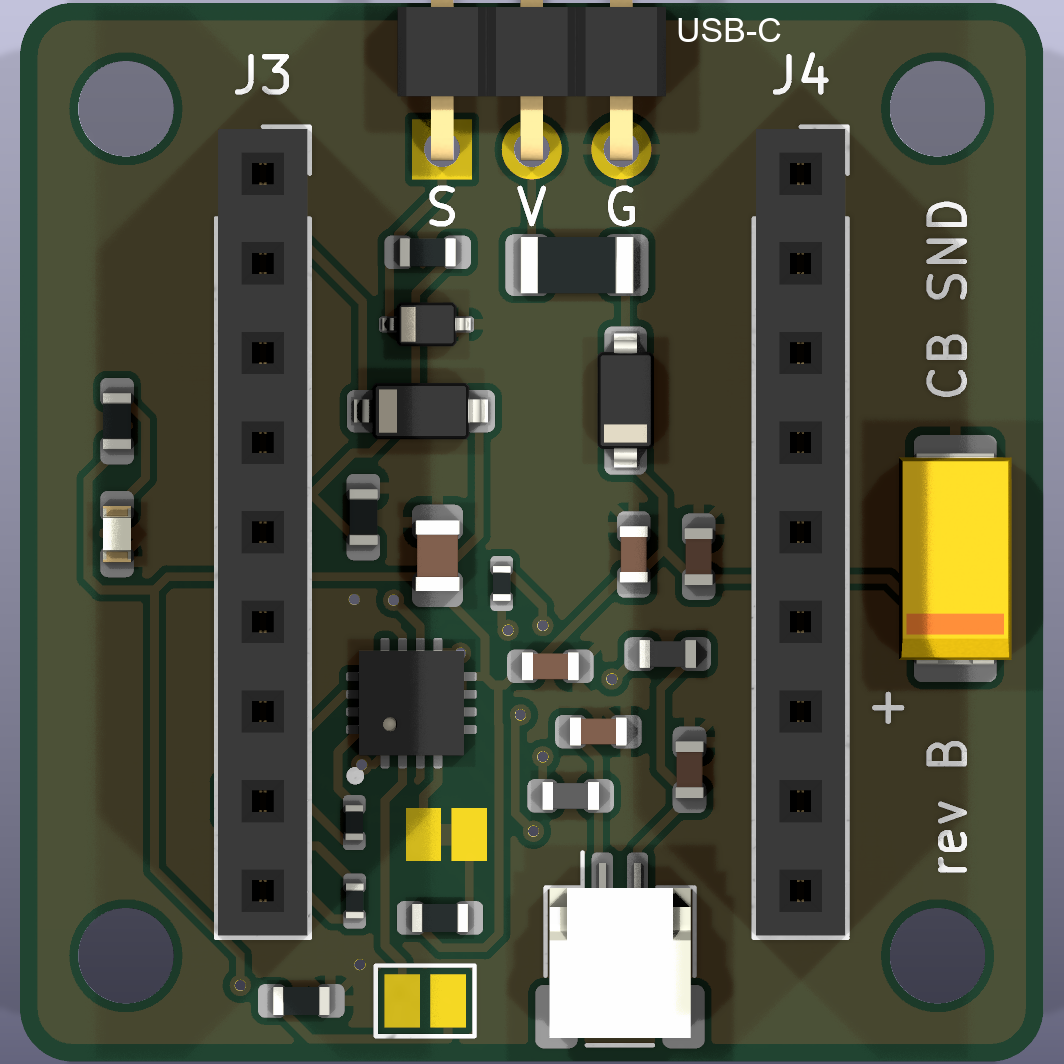
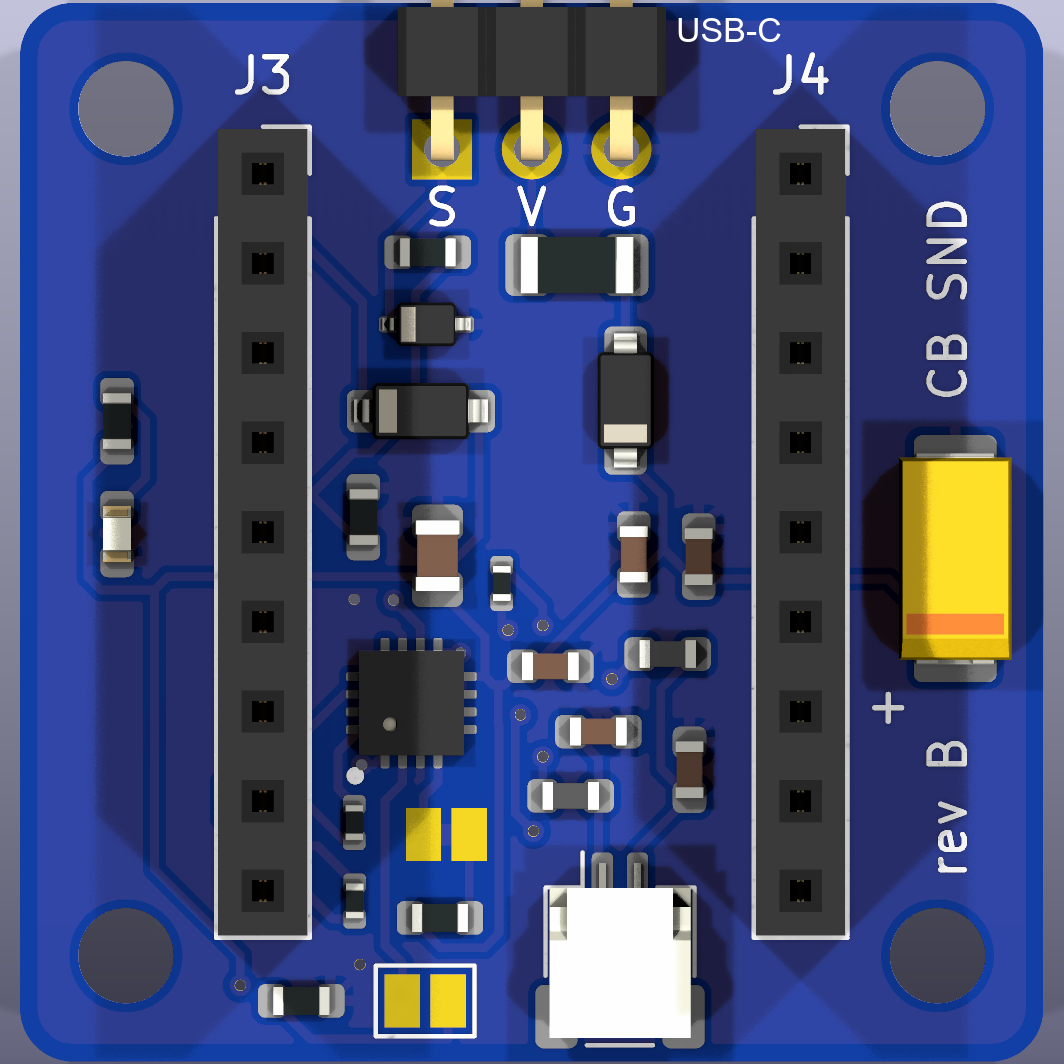
Shield rev B: blue solder mask in the board stackup, picture rendered in blue
The owner's decision of 2026-11-27: the same colour as the ESP32-S3-Zero on top of the board. The colour is set by
tools/shield_stackup.py (also run by make_shield_rev_b.py); tools/render_shield_rev_b.py makes the picture. Gerbers
and drill file come out as before, only the colour fields of the gerber job file differ; fab/ is not regenerated.

diff --git a/tools/shield_stackup.py b/tools/shield_stackup.py
@@ -1,0 +1,59 @@
+"""The colour of the shield board in its KiCad file: the physical stackup (Board Setup > Physical Stackup) with the
+solder mask colour of rev B, blue like the ESP32-S3-Zero on top of it (decided 2026-11-27; rev A is green).
+
+KiCad uses the colour in its 3D view (with the board stackup colours switched on) and writes it into the gerber job
+file; the gerbers and the drill file do not change. The colour of a real board is chosen in the order form.
+
+tools/make_shield_rev_b.py calls set_stackup() after it has written the board. On a rev B board it can also be run
+alone, with any Python (running it again only sets the colour):
+
+    python tools/shield_stackup.py
+"""
+import re
+from pathlib import Path
+
+PCB = Path(__file__).resolve().parent.parent / "hardware" / "shield" / "shield.kicad_pcb"
+# A custom blue (RRGGBBAA): KiCad's own "Blue" looks violet in the 3D view; this one is close to the blue of the Zero and
+# lets the tracks show through.
+MASK = "#0A2F80F2"
+SILK = "White"
+
+# 2 layers, 1.6 mm in all: mask 0.01 + copper 0.035 + core 1.51 + copper 0.035 + mask 0.01
+STACKUP = f"""(stackup
+(layer "F.SilkS" (type "Top Silk Screen") (color "{SILK}"))
+(layer "F.Paste" (type "Top Solder Paste"))
+(layer "F.Mask" (type "Top Solder Mask") (color "{MASK}") (thickness 0.01))
+(layer "F.Cu" (type "copper") (thickness 0.035))
+(layer "dielectric 1" (type "core") (thickness 1.51) (material "FR4") (epsilon_r 4.5) (loss_tangent 0.02))
+(layer "B.Cu" (type "copper") (thickness 0.035))
+(layer "B.Mask" (type "Bottom Solder Mask") (color "{MASK}") (thickness 0.01))
+(layer "B.Paste" (type "Bottom Solder Paste"))
+(layer "B.SilkS" (type "Bottom Silk Screen") (color "{SILK}"))
+(copper_finish "None")
+(dielectric_constraints no)
+)"""
+
+
+def set_stackup(path=PCB):
+    text = Path(path).read_bytes().decode("utf-8")
+    nl = "\r\n" if "\r\n" in text else "\n"
+    if "(stackup" in text:
+        # KiCad's own layout: one item per line, the colour after the type of the layer
+        new, n = re.subn(r'(\(type "(?:Top|Bottom) Solder Mask"\)\s*\(color ")[^"]*(")', rf"\g<1>{MASK}\g<2>", text)
+        if n != 2:
+            raise SystemExit(f"{path}: the stackup has no two mask colours to set; use KiCad's Board Setup")
+    else:
+        lines = STACKUP.split("\n")
+        block = [lines[0]] + ["\t" + x for x in lines[1:-1]] + [lines[-1]]
+        new, n = re.subn(r"(\n\t\(setup)(\r?\n)", lambda m: m.group(1) + m.group(2) + "".join("\t\t" + x + nl for x in block),
+                         text, count=1)
+        if n != 1:
+            raise SystemExit(f"{path}: no (setup section found")
+    Path(path).write_bytes(new.encode("utf-8"))
+    print(f"solder mask {MASK} set in {path}")
+
+
+if __name__ == "__main__":
+    if '(rev "B")' not in PCB.read_text(encoding="utf-8"):
+        raise SystemExit(f"{PCB.name} is not rev B; rev A is green")
+    set_stackup()

diff --git a/tools/render_shield_rev_b.py b/tools/render_shield_rev_b.py
@@ -1,0 +1,39 @@
+"""Make docs/shield-pcb-rev-b-top.png: the 3D render of the rev B board (top side, the colours of the board stackup)
+with the intended "USB-C" label added to the picture only (it is not in the board files).
+
+Usage: python tools/render_shield_rev_b.py
+
+Needs KiCad's kicad-cli and ImageMagick (magick): both are looked for on the PATH, then in their usual Windows folders.
+"""
+import glob
+import shutil
+import subprocess
+import tempfile
+from pathlib import Path
+
+ROOT = Path(__file__).resolve().parent.parent
+PCB = ROOT / "hardware" / "shield" / "shield.kicad_pcb"
+OUT = ROOT / "docs" / "shield-pcb-rev-b-top.png"
+
+
+def program(name, *patterns):
+    found = shutil.which(name) or next((m for p in patterns for m in sorted(glob.glob(p), reverse=True)), None)
+    if not found:
+        raise SystemExit(f"{name} not found")
+    return found
+
+
+def main():
+    cli = program("kicad-cli", r"C:\Program Files\KiCad\bin\kicad-cli.exe", r"C:\Program Files\KiCad\*\bin\kicad-cli.exe")
+    magick = program("magick", r"C:\Program Files\ImageMagick*\magick.exe")
+    with tempfile.TemporaryDirectory() as d:
+        raw = Path(d) / "top.png"
+        subprocess.run([cli, "pcb", "render", "--side", "top", "--quality", "high", "--width", "1100", "--height", "1100",
+                        "--background", "opaque", "--use-board-stackup-colors", "-o", str(raw), str(PCB)], check=True)
+        subprocess.run([magick, str(raw), "-font", "Arial", "-pointsize", "34", "-fill", "white", "-gravity", "northwest",
+                        "-annotate", "+676+18", "USB-C", "-strip", str(OUT)], check=True)
+    print(OUT)
+
+
+if __name__ == "__main__":
+    main()

diff --git a/tools/make_shield_rev_b.py b/tools/make_shield_rev_b.py
@@ -8,7 +8,8 @@ What changes:
     them; J2, J3, J4 and JP1 keep theirs, J1's outline (it hangs over the edge) goes;
   - new text, all 1.0 mm high with a 0.15 mm stroke (JLCPCB's advice for silkscreen): S V G below the pads of the servo header
     J1, "+" at C1, "CB SND" and "rev B" in the right margin; a dot at pin 1 of U1;
-  - title block of the board: revision B, date, title.
+  - title block of the board: revision B, date, title;
+  - the physical stackup with a blue solder mask (tools/shield_stackup.py, decided 2026-11-27).
 
 Run with KiCad's own Python (it has the pcbnew module), on the rev A board:
 
@@ -22,6 +23,8 @@ import sys
 from pathlib import Path
 
 import pcbnew
+
+from shield_stackup import set_stackup
 
 ROOT = Path(__file__).resolve().parent.parent
 PCB = ROOT / "hardware" / "shield" / "shield.kicad_pcb"
@@ -109,6 +112,7 @@ def main():
     tb.SetComment(0, "Engine sound module: ESP32-S3-Zero + MAX98357A, throttle from the servo port PWM2")
     tb.SetComment(1, "Rev B: silkscreen only, electrically the same as rev A (tag hw-shield-revA)")
     pcbnew.SaveBoard(str(PCB), board)
+    set_stackup(PCB)
     print(f"rev {REV} written to {PCB}")
 
 

diff --git a/docs/contents.md b/docs/contents.md
@@ -54,7 +54,7 @@ A short map of the repository. What each document says is in the table in `READM
 |---|---|
 | Sound | `engine_lab.py`, `simulate_engine.py`, `speaker_model.py`, `make_engine_*.py`, `make_*_loop.py`, `make_shift_sound.py`, `make_sample.py` |
 | Sets and web app | `make_default_sets.py`, `make_user_sounds.py`, `make_test_set.py`, `make_number_names.py`, `make_voice_*`, `make_guide_images.py` |
-| Shield | `make_shield_*.py`, `shield_*.py`, `place_shield.py`, `check_shield_netlist.py`, `check_shield_3d.py` (3D sizes, collisions, room under the Zero), `make_shield_3d_kicad.py` (the 3D page from KiCad), `render_pcb.py` |
+| Shield | `make_shield_*.py`, `shield_*.py`, `place_shield.py`, `check_shield_netlist.py`, `check_shield_3d.py` (3D sizes, collisions, room under the Zero), `make_shield_3d_kicad.py` (the 3D page from KiCad), `render_pcb.py`, `render_shield_rev_b.py` (the picture of rev B) |
 | Shield, placement trial | `extract_board_for_trial.py` (run with KiCad's Python: writes `work/board_full.json`, the courtyards and pads of the shield parts) and `trial_place_j1.py` (re-places the 22 movable parts by simulated annealing and counts overlaps; written for the test of a J1 moved deeper into the board, `trial_place_j1.py <YJ in mm> <seed> <iterations> [check]`; an area test only, without routing; can be reused for any change of the part layout) |
 | Measurement | `analyze_speaker_sweep.py` |
 | Documentation | `check_links.py` (links, anchors, pictures, named sections and file names in the documents; `python tools/check_links.py`, with `--external` also the web addresses; run it after moving or renaming anything) |

diff --git a/docs/shield-pcb-rev-b.md b/docs/shield-pcb-rev-b.md
@@ -20,6 +20,12 @@ finds 0 violations (rev A: 53 silkscreen warnings) and 0 unconnected items. The 
 - **Gone**: the reference labels (R1, C3, ...), the outlines of the small parts (they moved to the fab layer, so the
   assembly drawing keeps them) and the outline of J1, which hung over the board edge. The references stay in the
   schematic, the BOM and the placement files; JLCPCB places the parts from those, not from the silkscreen.
+- **Colour (decided 2026-11-27): a blue solder mask**, the same as the ESP32-S3-Zero on top of it (rev A is green).
+  The colour is set in the board's physical stackup (`tools/shield_stackup.py`, also run by `make_shield_rev_b.py`); in
+  KiCad's 3D viewer switch on the board stackup colours to see it. A custom blue is used, because KiCad's own "Blue"
+  looks violet. The gerbers and the drill file do not change (only the colour fields of the gerber job file; `fab/` was
+  not regenerated for it). The colour of the real board is chosen in the order form; check there whether blue changes
+  the price, the delivery time or the assembly options. The picture above is made by `tools/render_shield_rev_b.py`.
 - **Size**: every text is 1.0 mm high with a 0.15 mm stroke (JLCPCB's advice, 1 mm and 0.15 mm; to be checked in their
   rules before the order). The labels of rev A were 0.8 mm / 0.12 mm.
 - **Files**: the title block says rev B (board and schematic) and the gerbers carry `Revision: B`. The board is saved
